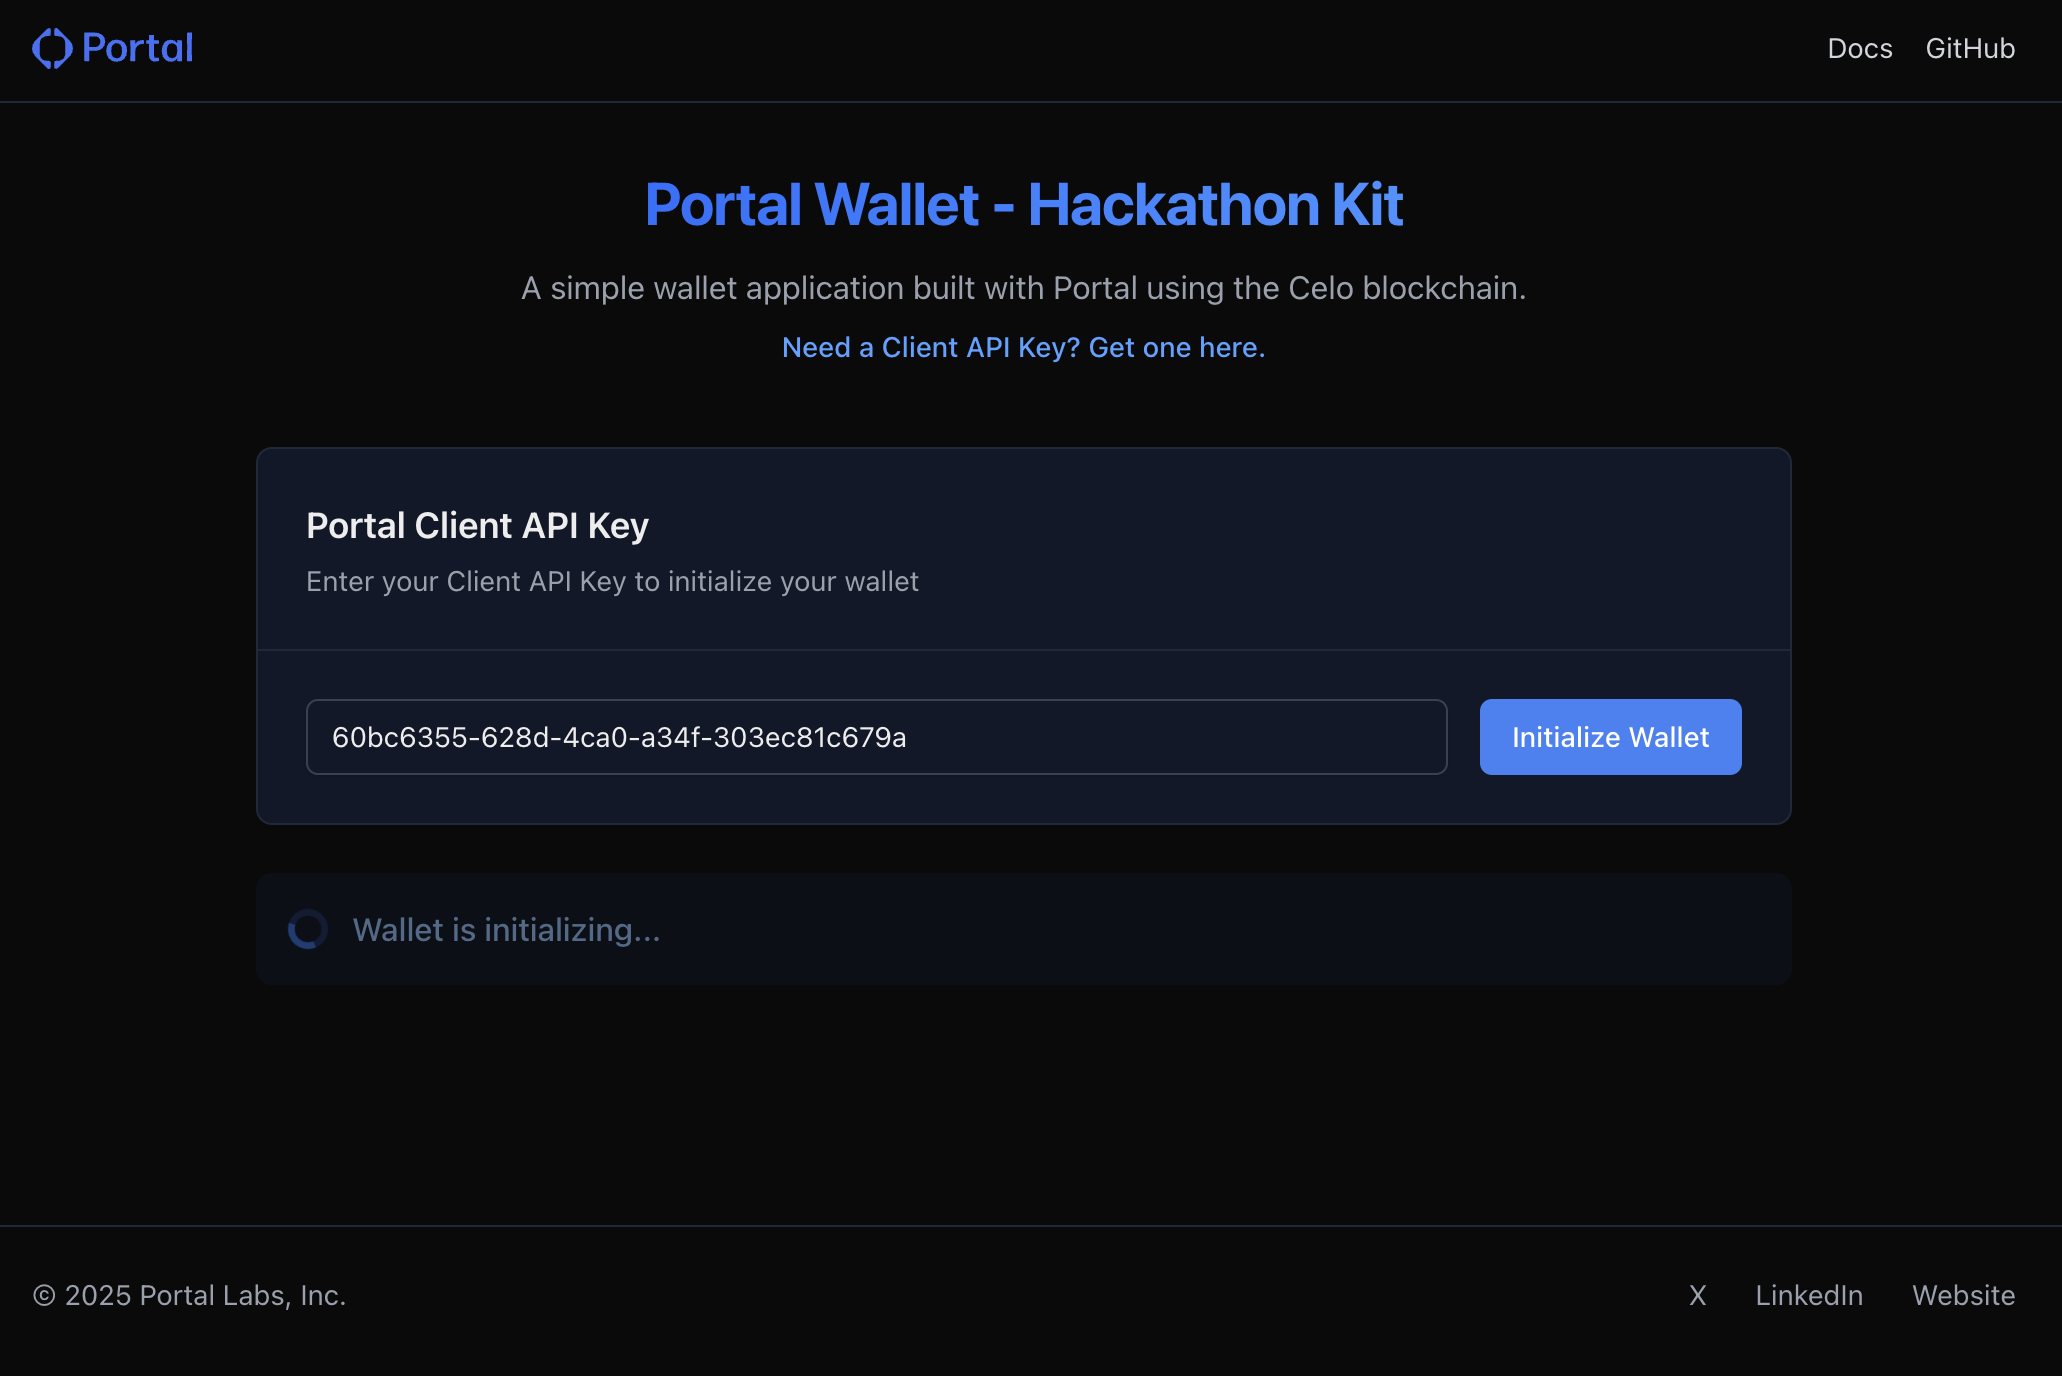
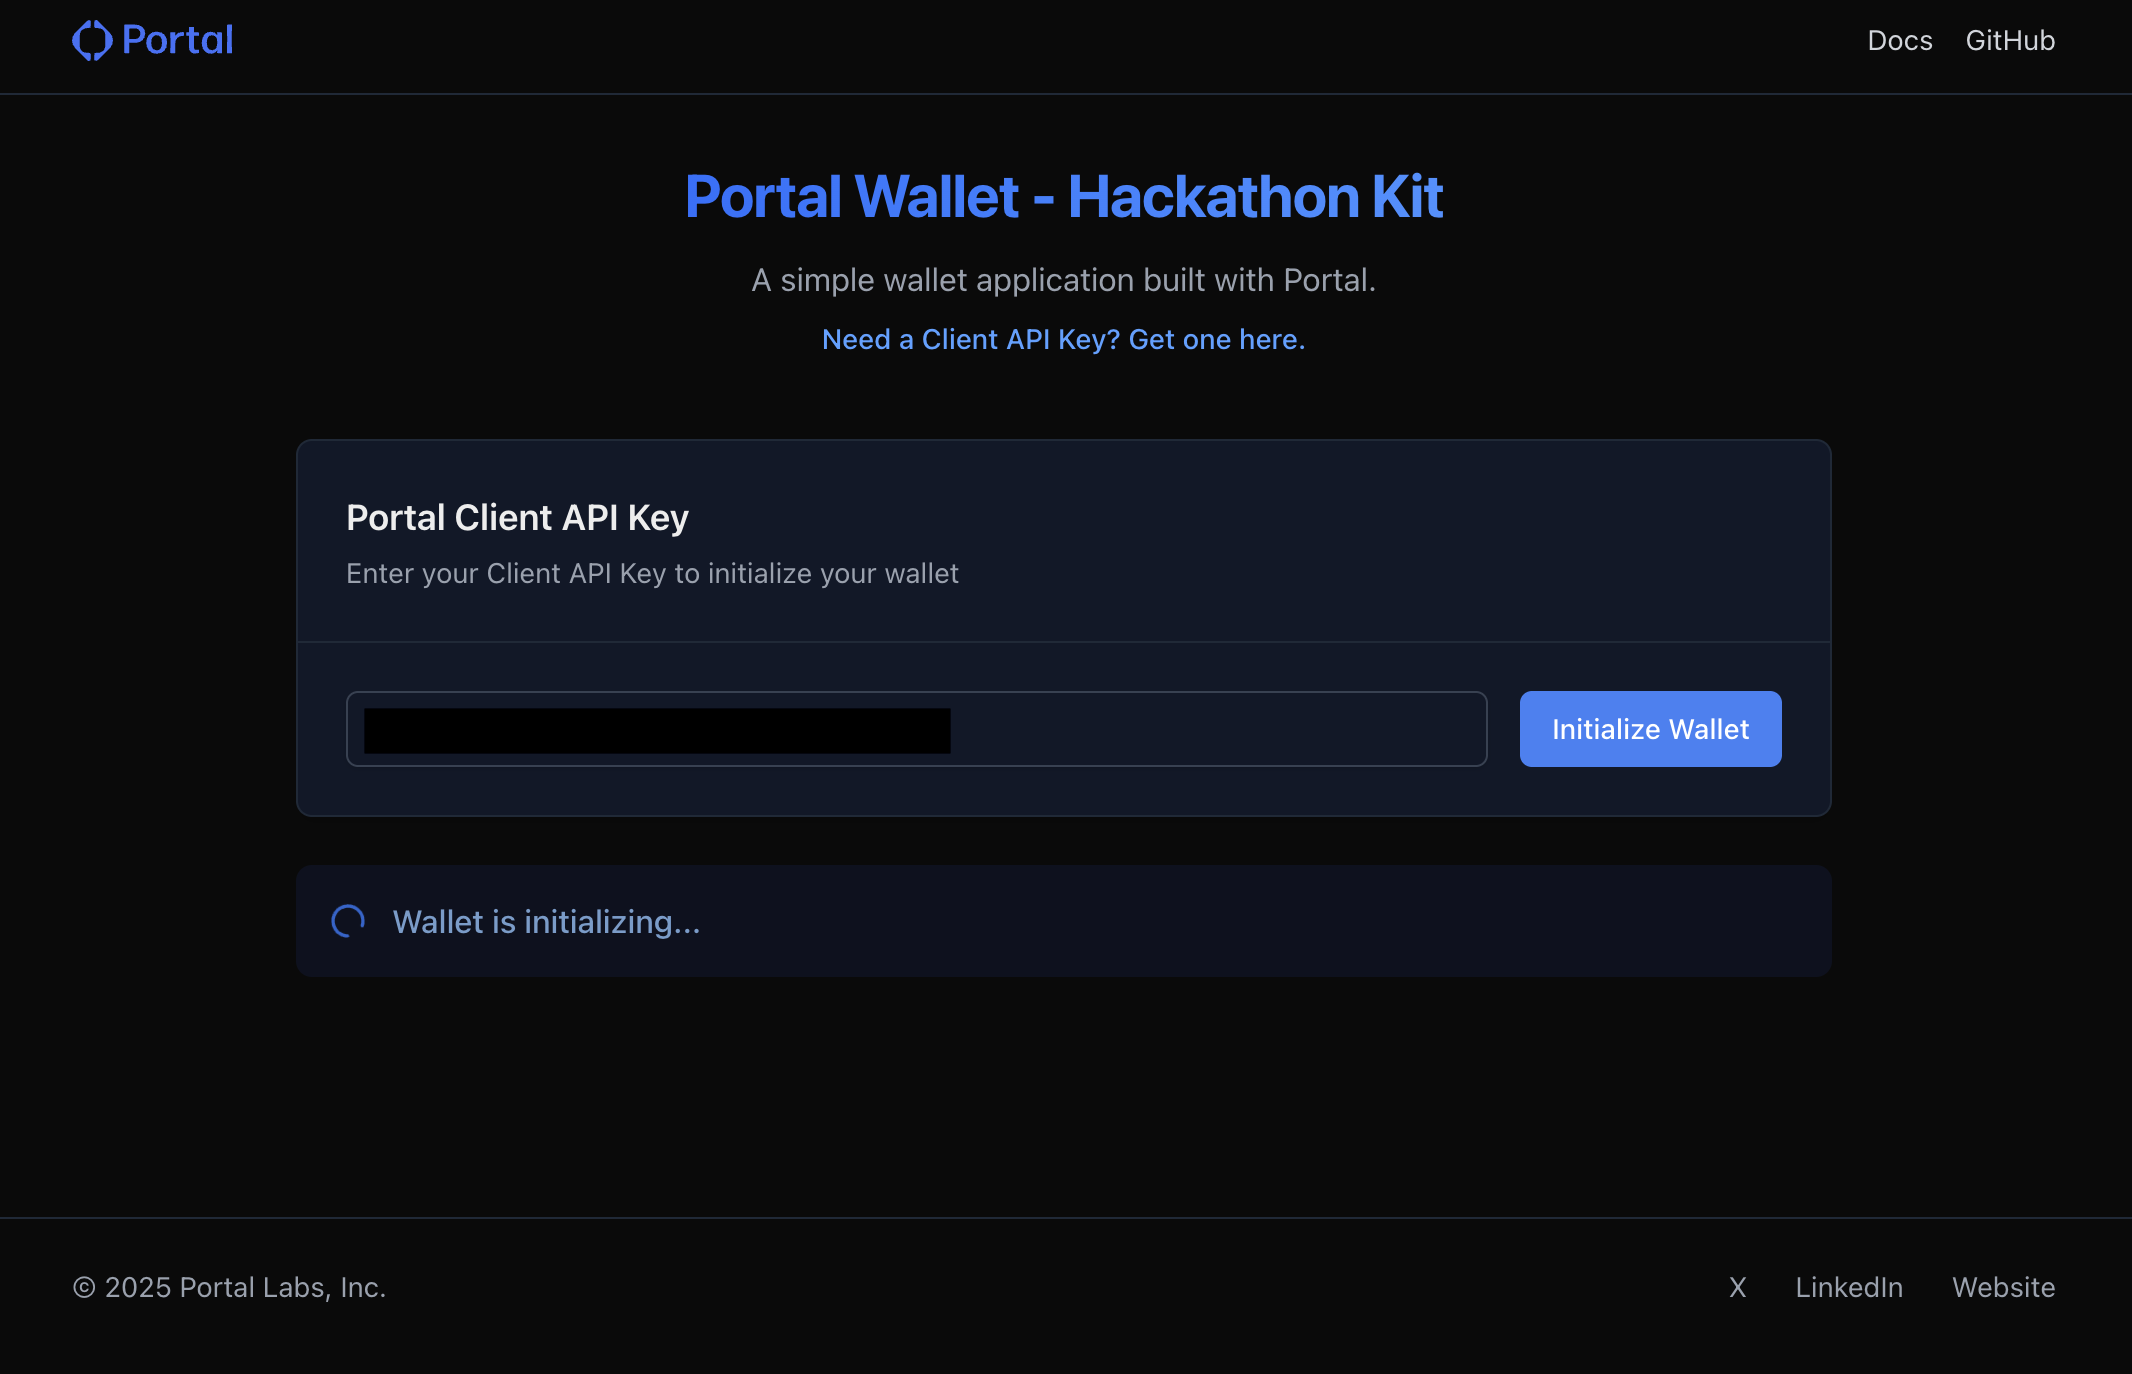
Add MXNB + Arb Sepolia support

diff --git a/src/hooks/usePortalWallet.ts b/src/hooks/usePortalWallet.ts
@@ -6,13 +6,13 @@ import { appConfig } from "@/config";
 export interface UsePortalWalletReturn {
   portal: Portal | undefined;
   eip155Address: string;
-  assets: CeloAssets | undefined;
+  assets: Assets | undefined;
   error: string | undefined;
   clientApiKey: string;
   setClientApiKey: (key: string) => void;
   initializeWallet: () => Promise<void>;
   disconnectWallet: () => void;
-  getAssets: () => Promise<CeloAssets | undefined>;
+  getAssets: () => Promise<Assets | undefined>;
   handleFundWallet: () => Promise<void>;
   sendTokens: (params: {
     to: string;
@@ -23,7 +23,7 @@ export interface UsePortalWalletReturn {
 
 export function usePortalWallet(): UsePortalWalletReturn {
   // State
-  const [assets, setAssets] = useState<CeloAssets | undefined>(undefined);
+  const [assets, setAssets] = useState<Assets | undefined>(undefined);
   const [portal, setPortal] = useState<Portal | undefined>(undefined);
   const [eip155Address, setEip155Address] = useState<string>("");
   const [error, setError] = useState<string | undefined>(undefined);
@@ -52,7 +52,7 @@ export function usePortalWallet(): UsePortalWalletReturn {
   const getAssetsFrom = async (portalInstance: Portal) => {
     const assets = (await portalInstance.getAssets(
       appConfig.chainId
-    )) as unknown as CeloAssets;
+    )) as unknown as Assets;
     setAssets(assets);
     return assets;
   };
@@ -61,7 +61,7 @@ export function usePortalWallet(): UsePortalWalletReturn {
     if (!portal) return;
     const assets = (await portal.getAssets(
       appConfig.chainId
-    )) as unknown as CeloAssets;
+    )) as unknown as Assets;
     setAssets(assets);
     return assets;
   };
@@ -123,12 +123,14 @@ export function usePortalWallet(): UsePortalWalletReturn {
     if (!portal) return;
 
     try {
-      toast.info("Requesting testnet CELO...");
+      toast.info(`Requesting testnet ${appConfig.nativeTokenSymbol}...`);
       await portal.receiveTestnetAsset(appConfig.chainId, {
         amount: "0.1",
-        token: "CELO",
+        token: appConfig.nativeTokenSymbol,
       });
-      toast.success("Wallet funded with testnet CELO!");
+      toast.success(
+        `Wallet funded with testnet ${appConfig.nativeTokenSymbol}!`
+      );
     } catch (error) {
       toast.error(`Failed to fund wallet: ${error}`);
     }
@@ -169,10 +171,7 @@ export function usePortalWallet(): UsePortalWalletReturn {
         action: {
           label: "View on Explorer",
           onClick: () => {
-            window.open(
-              `https://celo-alfajores.blockscout.com/tx/${transactionHash}`,
-              "_blank"
-            );
+            window.open(`${appConfig.explorerUrl}${transactionHash}`, "_blank");
           },
         },
       });

diff --git a/src/components/WalletAddress.tsx b/src/components/WalletAddress.tsx
@@ -3,6 +3,7 @@ import { toast } from "sonner";
 import { Button } from "./ui/Button";
 import { Card } from "./ui/Card";
 import { Copy, Plus, RefreshCw } from "lucide-react";
+import { appConfig } from "@/config";
 
 interface WalletAddressProps {
   address: string;
@@ -16,7 +17,7 @@ export function WalletAddress({
   getAssets,
 }: WalletAddressProps) {
   return (
-    <Card title="Your Celo Address" className="mb-6">
+    <Card title="Your Address" className="mb-6">
       <div className="space-y-4">
         <div className="flex items-center justify-between bg-gray-50 dark:bg-gray-800 rounded-md p-3 overflow-hidden">
           <code className="text-sm font-mono break-all">{address}</code>
@@ -35,7 +36,7 @@ export function WalletAddress({
         <div className="flex flex-wrap gap-3">
           <Button onClick={handleFundWallet} variant="primary">
             <Plus className="h-4 w-4 mr-1.5" />
-            Fund with Testnet CELO
+            Fund with Testnet {appConfig.nativeTokenSymbol}
           </Button>
 
           <Button onClick={getAssets} variant="secondary">

diff --git a/src/components/TokenBalances.tsx b/src/components/TokenBalances.tsx
@@ -1,6 +1,7 @@
 import React from "react";
 import { Card } from "./ui/Card";
 import { Plus } from "lucide-react";
+import { appConfig } from "@/config";
 
 interface TokenBalance {
   name: string;
@@ -86,7 +87,7 @@ export function TokenBalances({
             No tokens found
           </h3>
           <p className="text-sm text-gray-500 dark:text-gray-400">
-            Try funding your wallet with testnet CELO.
+            Try funding your wallet with testnet {appConfig.nativeTokenSymbol}.
           </p>
         </div>
       ) : (
@@ -103,7 +104,7 @@ export function TokenBalances({
               </tr>
             </thead>
             <tbody>
-              {/* Native CELO token */}
+              {/* Native token */}
               {nativeBalance && renderTokenRow(nativeBalance, true)}
 
               {/* Other tokens */}

diff --git a/src/config/index.ts b/src/config/index.ts
@@ -1,8 +1,11 @@
 export const appConfig = {
-  chainId: process.env.chainId || 'eip155:44787',
-  portalClientApiKey: process.env.portalClientApiKey || '',
+  chainId: process.env.NEXT_PUBLIC_CHAIN_ID || "eip155:421614",
+  nativeTokenSymbol: process.env.NEXT_PUBLIC_NATIVE_TOKEN_SYMBOL || "MXNB",
+  portalClientApiKey: process.env.NEXT_PUBLIC_PORTAL_CLIENT_API_KEY || "",
+  explorerUrl:
+    process.env.NEXT_PUBLIC_EXPLORER_URL || "https://sepolia.arbiscan.io/tx/",
   rpcConfig: {
-    'eip155:44787': 'https://alfajores-forno.celo-testnet.org',
-    'eip155:42220': 'https://forno.celo.org',
+    "eip155:421614": `https://arb-sepolia.g.alchemy.com/v2/${process.env.NEXT_PUBLIC_ALCHEMY_API_KEY}`,
+    "eip155:42161": `https://arb-mainnet.g.alchemy.com/v2/${process.env.NEXT_PUBLIC_ALCHEMY_API_KEY}`,
   },
 };

diff --git a/src/pages/index.tsx b/src/pages/index.tsx
@@ -7,7 +7,6 @@ import { TokenBalances } from "@/components/TokenBalances";
 import { SendTokensForm } from "@/components/SendTokensForm";
 import { ErrorDisplay } from "@/components/ErrorDisplay";
 import { Loader2 } from "lucide-react";
-import { appConfig } from "@/config";
 import Portal from "@portal-hq/web";
 
 export default function Home() {
@@ -58,8 +57,7 @@ export default function Home() {
             Portal Wallet - Hackathon Kit
           </h1>
           <p className="text-gray-600 dark:text-gray-400 max-w-xl mx-auto">
-            A simple wallet application built with Portal using the Celo
-            blockchain.{" "}
+            A simple wallet application built with Portal.{" "}
             <a
               href="https://app.portalhq.io"
               target="_blank"

diff --git a/src/components/SendTokensForm.tsx b/src/components/SendTokensForm.tsx
@@ -3,6 +3,7 @@ import { Card } from "./ui/Card";
 import { Input } from "./ui/Input";
 import { Select } from "./ui/Select";
 import { Button } from "./ui/Button";
+import { appConfig } from "@/config";
 
 interface TokenOption {
   symbol: string;
@@ -52,7 +53,7 @@ export function SendTokensForm({
       symbol: nativeBalance.symbol,
       name: nativeBalance.name,
       balance: nativeBalance.balance,
-      value: "CELO",
+      value: appConfig.nativeTokenSymbol,
     });
   }
 

diff --git a/src/types/index.d.ts b/src/types/index.d.ts
@@ -1,4 +1,4 @@
-interface CeloAssets {
+interface Assets {
   nativeBalance: {
     balance: string;
     decimals: number;

diff --git a/README.md b/README.md
@@ -2,11 +2,11 @@
 
 # Portal Hackathon Kit - Web SDK
 
-This repository shows you how you can easily integrate `CELO` into your web app using the [Portal Web SDK](https://docs.portalhq.io/guides/web). It covers the following features.
+This repository shows you how you can easily integrate `MXNB` into your web app using the [Portal Web SDK](https://docs.portalhq.io/guides/web). It covers the following features.
 
 1. Generate a Wallet
 2. Fetch and display balances.
-3. Fund wallet with `CELO` on Celo Alfajores Testnet.
+3. Fund wallet with `MXNB` on Arbitrum Sepolia.
 4. Transfer tokens to a given recipient address.
 
 ## How to Run This Example App
@@ -48,20 +48,20 @@ This app demonstrates how to integrate the Portal SDK in a Next.js application t
 - `src/pages/index.tsx` - Main application page and component structure
 - `src/hooks/usePortalWallet.ts` - Custom hook that manages all Portal SDK interactions
 - `src/components/` - UI components for the wallet interface
-- `src/config/index.ts` - Application configuration including Celo network settings
+- `src/config/index.ts` - Application configuration including Arbitrum network settings
 - `src/types/index.d.ts` - TypeScript definitions for Portal SDK responses
 
 ### Key Components
 
 - **ApiKeyInput** - Allows users to enter their Portal Client API Key and initialize the wallet
-- **WalletAddress** - Displays the user's Celo address with copy functionality and funding options
+- **WalletAddress** - Displays the user's EVM address with copy functionality and funding options
 - **TokenBalances** - Shows all tokens in the user's wallet with balances
 - **SendTokensForm** - Form for sending tokens to another address
 
 ### Wallet Initialization Flow
 
 1. User enters their Portal Client API Key
-2. The app initializes the Portal SDK with the key and connects to the Celo Alfajores Testnet
+2. The app initializes the Portal SDK with the key and connects to the Arbitrum Sepolia network
 3. The SDK creates a new wallet or retrieves an existing one
 4. The app displays the wallet address and token balances
 
@@ -69,8 +69,8 @@ This app demonstrates how to integrate the Portal SDK in a Next.js application t
 
 The app fetches and displays the user's token balances using the Portal SDK's `getAssets` method. Users can:
 
-- View their `CELO` and other token balances
-- Fund their wallet with testnet `CELO`
+- View their `MXNB` and other token balances
+- Fund their wallet with testnet `MXNB`
 - Refresh balances to see updated amounts
 
 ### Token Transfer Flow
@@ -78,17 +78,13 @@ The app fetches and displays the user's token balances using the Portal SDK's `g
 1. User selects a token to send
 2. User enters a recipient address and amount
 3. The app uses Portal SDK's `sendAsset` method to create and send the transaction
-4. A confirmation displays with a link to view the transaction on the Celo explorer
+4. A confirmation displays with a link to view the transaction on the Arbitrum Sepolia explorer
 
 ## Faucets for Testing
 
-You can get more `CELO` tokens for testing with the below faucet.
+You can get more `MXNB` tokens for testing with the below faucet.
 
-- [Alfajores Testnet Faucet](https://faucet.celo.org/alfajores) - Get testnet CELO tokens
-
-If you need tokens other than `CELO`, we recommend getting testnet `CELO` and swapping them via Mento's DEX:
-
-- [Mento App](https://app.mento.org/) - Swap between `CELO`, `cUSD`, `USDC`, `USDT`, and more
+- [Juno Faucet](https://buildwithjuno.com/en-US/faucet) - Get testnet `MXNB` tokens
 
 ## How to Customize
 
@@ -119,10 +115,9 @@ Portal supplies several APIs for simplifying your development.
 - [Build a Transaction](https://docs.portalhq.io/reference/client-api/v3-endpoints#build-a-transaction): This endpoint builds a formatted transaction to send a fungible asset (native, ERC-20, and SPL tokens) for a given chain.
 - And [more](https://docs.portalhq.io/reference/client-api/v3-endpoints).
 
-### CELO Documentation
+### MXNB Documentation
 
-- [Celo Docs](https://docs.celo.org/) - Official Celo documentation
-- [Mento Protocol](https://www.mento.org/) - Celo's stablecoin protocol
+- [Juno Docs](https://buildwithjuno.com/en-US) - Official Juno website
 
 ### Other Helpful Resources
 
